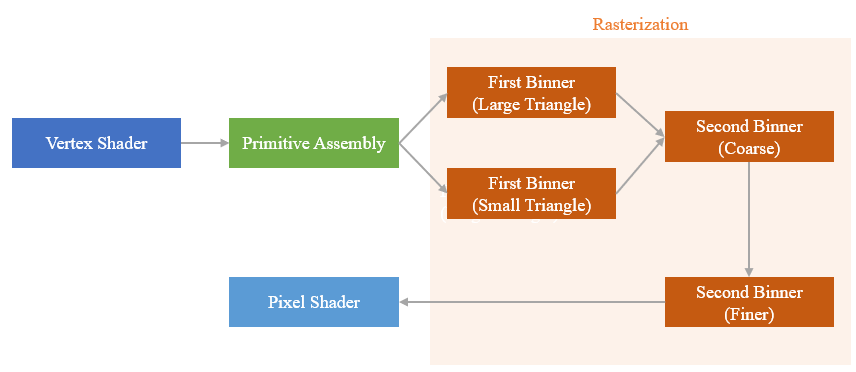
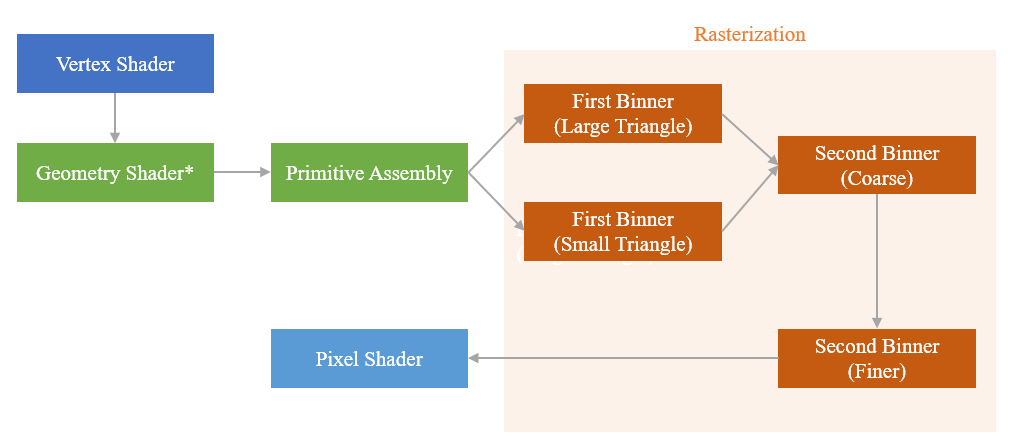
Feature: Geometry Shader

diff --git a/IfritMain.cpp b/IfritMain.cpp
@@ -183,7 +183,6 @@ int mainGpu() {
 	std::shared_ptr<ImageF32> depth = std::make_shared<ImageF32>(DEMO_RESOLUTION, DEMO_RESOLUTION, 1);
 	std::shared_ptr<TileRasterRendererCuda> renderer = std::make_shared<TileRasterRendererCuda>();
 	FrameBuffer frameBuffer;
-
 	VertexBuffer vertexBuffer;
 	vertexBuffer.setLayout({ TypeDescriptors.FLOAT4,TypeDescriptors.FLOAT4,TypeDescriptors.FLOAT4 });
 	vertexBuffer.allocateBuffer(pos.size());
@@ -205,7 +204,7 @@ int mainGpu() {
 	for (int i = 0; i < index.size(); i += 3) {
 		indexBuffer[i / 3] = index[i];
 	}
-
+	printf("Total Tris:%d\n", indexBuffer.size() / 3);
 	frameBuffer.setColorAttachments({ image1 });
 	frameBuffer.setDepthAttachment(depth);
 
@@ -218,12 +217,14 @@ int mainGpu() {
 	VaryingDescriptor vertexShaderLayout;
 	vertexShaderLayout.setVaryingDescriptors({ TypeDescriptors.FLOAT4,TypeDescriptors.FLOAT4 });
 	DemoFragmentShaderCuda fragmentShader;
-
+	DemoGeometryShaderCuda geometryShader;
 	
 	auto dVertexShader = vertexShader.getCudaClone();
 	auto dFragmentShader = fragmentShader.getCudaClone();
+	auto dGeometryShader = geometryShader.getCudaClone();
 	renderer->bindFragmentShader(dFragmentShader);
 	renderer->bindVertexShader(dVertexShader, vertexShaderLayout);
+	renderer->bindGeometryShader(dGeometryShader);
 
 	printf("Start\n");
 	GLFWWindowProvider windowProvider;

diff --git a/src/engine/tilerastercuda/TileRasterRendererCuda.cpp b/src/engine/tilerastercuda/TileRasterRendererCuda.cpp
@@ -57,7 +57,6 @@ namespace Ifrit::Engine::TileRaster::CUDA {
 		else {
 			this->deviceIndexBuffer = Invocation::getIndexBufferDeviceAddr(indexBuffer.data(), indexBuffer.size(), this->deviceIndexBuffer);
 		}
-		
 	}
 
 	void TileRasterRendererCuda::bindVertexShader(VertexShader* vertexShader, VaryingDescriptor& varyingDescriptor) {
@@ -77,7 +76,8 @@ namespace Ifrit::Engine::TileRaster::CUDA {
 		needVaryingUpdate = false;
 		auto vcount = context->varyingDescriptor->getVaryingCounts();
 		auto vxcount = context->vertexBuffer->getVertexCount();
-		cudaMalloc(&deviceContext->dVaryingBufferM2, vcount * vxcount * sizeof(VaryingStore*));
+		printf("Varying Alloc %d %d \n", vcount, vxcount);
+		cudaMalloc(&deviceContext->dVaryingBufferM2, vcount * vxcount * sizeof(VaryingStore));
 	}
 	void TileRasterRendererCuda::bindFragmentShader(FragmentShader* fragmentShader) {
 		context->fragmentShader = fragmentShader;

diff --git a/include/engine/math/ShaderBuiltin.h b/include/engine/math/ShaderBuiltin.h
@@ -5,3 +5,6 @@
 
 #define isbcuReadPsVarying(x,y)  ((const ifloat4s256*)(x))[(y)]
 #define isbcuReadPsColorOut(x,y)  ((ifloat4s256*)(x))[(y)]
+
+#define isbReadGsVarying(x,y) (inVaryings[(x)][(y)])
+#define isbStoreGsVarying(x,y,d,v) (outVaryings[(x)*(d)+(y)]=(v))

diff --git a/README.md b/README.md
@@ -21,7 +21,7 @@ Successor to following repos:
 
 ## Features
 
-Overall framework for CUDA renderer pipeline (Some are different from its MT-CPU counterpart):
+Overall framework for CUDA renderer pipeline (Some are different from its MT-CPU counterpart). Stages with asterisk mark are optional.
 
 <img src="/img/overview.png" alt="overview" style="zoom: 67%;" />
 
@@ -35,6 +35,7 @@ Overall framework for CUDA renderer pipeline (Some are different from its MT-CPU
 | Performance / Dynamic Tile List               | √              | √ (2)        |
 | Pipeline / Programmable Vertex Shader         | √              | √            |
 | Pipeline / Programmable Fragment Shader       | √              | √            |
+| Pipeline / Programmable Geometry Shader |  | √ (3) |
 | Pipeline / Z Pre-Pass                         |                 | √            |
 | Pipeline / Early-Z Test                       | √              | √            |
 | Pipeline / Back Face Culling                  | √              | √            |
@@ -49,6 +50,8 @@ Overall framework for CUDA renderer pipeline (Some are different from its MT-CPU
 (1) For performance consideration, only w-axis is considered 
 
 (2) Causing latency issues
+
+(3) Under testing, might be buggy
 
 
 
@@ -120,7 +123,7 @@ Some dependencies should be prepared before compiling.
 
 - Bug Fix & Testing
   - Resolution Change
-- Geometry Shader
+- Tessellation
 - Line Mode
 - Texture LOD & Texture Sampler
 - Multi-sampling
